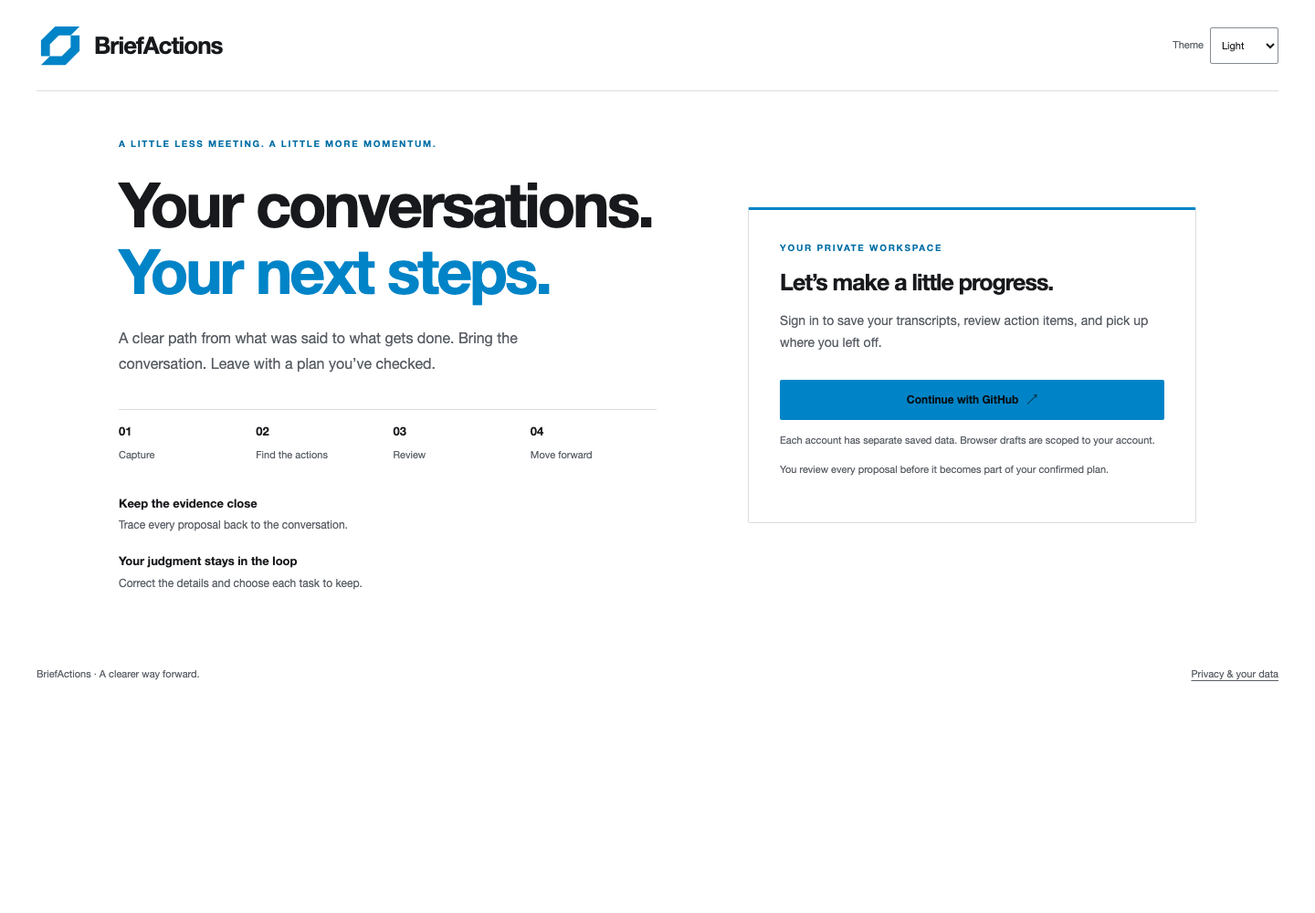
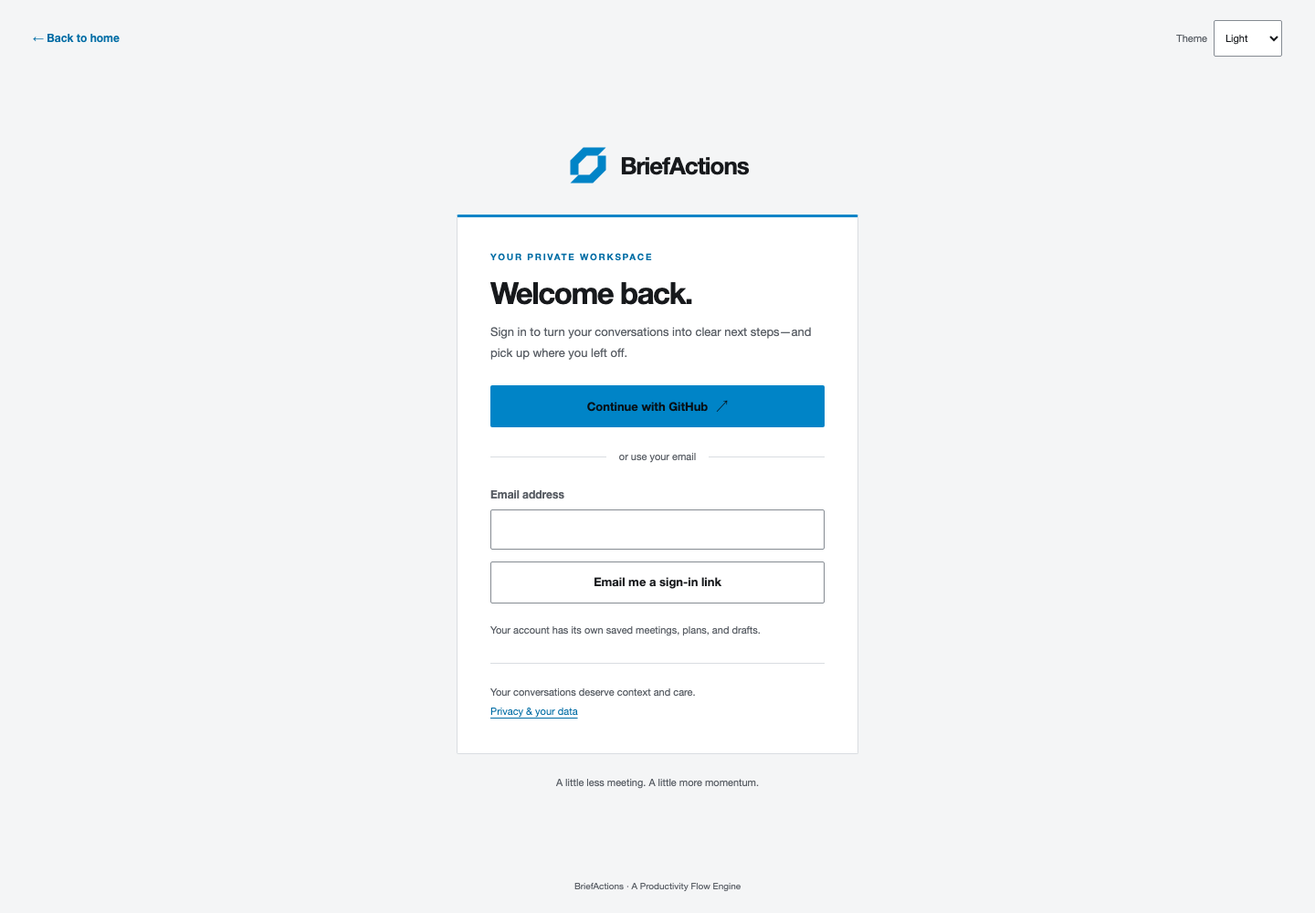
Add public homepage and dedicated sign-in flow

diff --git a/web/src/AuthShell.jsx b/web/src/AuthShell.jsx
@@ -1,55 +1,85 @@
-import React,{useEffect,useState} from 'react';
+import React,{useEffect,useRef,useState} from 'react';
 import {configureApi,request} from './api.js';
 import {scopeStorage} from './accountStorage.js';
 import ThemeControl from './ThemeControl.jsx';
 import ProductBrand from './ProductBrand.jsx';
+import LandingPage from './LandingPage.jsx';
 import {readRoute} from './routing.js';
+import {authScreen,workspaceDestination} from './authRouting.js';
+
+function clearDestination(){try{sessionStorage.removeItem('flow.authReturn');}catch{}}
+function destination(){let target;try{target=sessionStorage.getItem('flow.authReturn');}catch{}clearDestination();return workspaceDestination(target);}
+function rememberDestination(){if(!readRoute().invalid)try{sessionStorage.setItem('flow.authReturn',workspaceDestination(location.pathname+location.search+location.hash));}catch{}}
+function resolveScreen(signedIn,local){
+  const screen=authScreen();
+  if((screen==='signin' && signedIn) || screen==='callback' && (signedIn || local)){
+    history.replaceState({},'',destination());return 'workspace';
+  }
+  if(screen==='workspace' && !signedIn && !local){rememberDestination();history.replaceState({},'','/sign-in');return 'signin';}
+  if(screen==='callback'){history.replaceState({},'','/sign-in');return 'signin';}
+  return screen;
+}
 
 export default function AuthShell({children}) {
-  const [ready,setReady]=useState(false),[client,setClient]=useState(null),[session,setSession]=useState(null);
+  const [screen,setScreen]=useState(authScreen),[ready,setReady]=useState(false),[local,setLocal]=useState(false),[client,setClient]=useState(null),[session,setSession]=useState(null);
   const [error,setError]=useState(''),[notice,setNotice]=useState(''),[busy,setBusy]=useState(false),[email,setEmail]=useState(''),[emailEnabled,setEmailEnabled]=useState(false);
-  const [authUrl,setAuthUrl]=useState('');
+  const [authUrl,setAuthUrl]=useState(''),leaving=useRef(false);
   useEffect(()=>{
     let alive=true,subscription;
+    const callback=authScreen()==='callback';
     (async()=>{
       const response=await request('/api/auth-config');
       const config=await response.json();
-      if(config.mode==='local'){configureApi(null,null);scopeStorage(null);if(alive)setReady(true);return;}
+      if(config.mode==='local'){
+        configureApi(null,null);scopeStorage(null);
+        if(alive){setLocal(true);setScreen(resolveScreen(false,true));setReady(true);}return;
+      }
       const {createClient}=await import('@supabase/supabase-js');
       const auth=createClient(config.url,config.key,{auth:{flowType:'pkce'}});
-      const {data,error}=await auth.auth.getSession();
-      if(error)throw error;
-      if(data.session && location.pathname==='/'){try{const target=sessionStorage.getItem('flow.authReturn');if(target){const destination=new URL(target,location.origin);if(destination.origin===location.origin && !readRoute(destination).invalid)history.replaceState({},'',destination.pathname);}sessionStorage.removeItem('flow.authReturn');}catch{}}
-      let current=data.session?.user.id || null;
+      const {data,error:sessionError}=await auth.auth.getSession();
+      if(!alive)return;
+      if(sessionError || callback && !data.session)setError('We couldn’t finish signing you in. Please try again.');
+      const current=data.session?.user.id || null;
       configureApi(auth,current);scopeStorage(current);
-      if(alive){setClient(auth);setSession(data.session);setReady(true);setEmailEnabled(config.emailEnabled);setAuthUrl(config.url);}
+      setClient(auth);setSession(data.session);setScreen(resolveScreen(!!data.session,false));setReady(true);setEmailEnabled(config.emailEnabled);setAuthUrl(config.url);
       ({data:{subscription}}=auth.auth.onAuthStateChange((_event,next)=>{
         const id=next?.user.id || null;
         if(id!==current){
-          // Remove old account UI and stop its pending work before opening another.
+          // Unmount the old workspace before configuring requests for another account.
           if(alive){setReady(false);setSession(null);}
-          location.reload();
+          if(leaving.current)location.replace('/sign-in');else location.reload();
         }
       }));
-    })().catch(e=>{if(alive)setError(e.message);});
+    })().catch(()=>{if(alive)setError('Sign-in is temporarily unavailable. Please try again.');});
     return()=>{alive=false;subscription?.unsubscribe();};
   },[]);
-  function rememberDestination(){try{if(!readRoute().invalid)sessionStorage.setItem('flow.authReturn',location.pathname);}catch{}}
-  async function signIn(provider){rememberDestination();setBusy(true);setError('');try{const {error}=await client.auth.signInWithOAuth({provider,options:{redirectTo:location.origin}});if(error)throw error;}catch(e){setError(e.message);setBusy(false);}}
-  async function emailSignIn(event){event.preventDefault();rememberDestination();setBusy(true);setError('');try{const {error}=await client.auth.signInWithOtp({email,options:{emailRedirectTo:location.origin}});if(error)throw error;setNotice('Check your email for a sign-in link.');}catch(e){setError(e.message);}finally{setBusy(false);}}
-  async function signOut(){setBusy(true);setError('');const {error}=await client.auth.signOut();if(error){setError(error.message);setBusy(false);}}
+  useEffect(()=>{
+    if(!ready)return;
+    const pop=()=>setScreen(resolveScreen(!!session,local));
+    window.addEventListener('popstate',pop);return()=>window.removeEventListener('popstate',pop);
+  },[ready,session,local]);
+  async function signIn(provider){setBusy(true);setError('');try{const {error}=await client.auth.signInWithOAuth({provider,options:{redirectTo:location.origin+'/auth/callback'}});if(error)throw error;}catch{setError('We couldn’t start sign-in. Please try again.');setBusy(false);}}
+  async function emailSignIn(event){event.preventDefault();setBusy(true);setError('');setNotice('');try{const {error}=await client.auth.signInWithOtp({email,options:{emailRedirectTo:location.origin+'/auth/callback'}});if(error)throw error;setNotice('Check your email for a sign-in link.');}catch{setError('We couldn’t send a sign-in link. Please try again.');}finally{setBusy(false);}}
+  async function signOut(){
+    setBusy(true);setError('');leaving.current=true;clearDestination();
+    try{const {error}=await client.auth.signOut();if(error)throw error;location.replace('/sign-in');}catch{leaving.current=false;setError('We couldn’t sign you out. Please try again.');setBusy(false);}
+  }
   async function completeAccountDeletion(){
-    setReady(false);
+    setReady(false);leaving.current=true;clearDestination();
     try{await client.auth.signOut({scope:'local'});}finally{
       const key=`sb-${new URL(authUrl).hostname.split('.')[0]}-auth-token`;
-      localStorage.removeItem(key);localStorage.removeItem(key+'-code-verifier');location.reload();
+      localStorage.removeItem(key);localStorage.removeItem(key+'-code-verifier');location.replace('/sign-in');
     }
   }
-  if(ready && (!client || session))return children({account:session?.user,signOut:client?signOut:null,completeAccountDeletion,authError:error});
-  return <main className="auth-shell" id="signin-main"><a className="skip-link" href="#signin-title">Skip to sign in</a>
-    <header className="auth-header"><ProductBrand/><ThemeControl/></header>
-    <div className="auth-layout"><section className="auth-story" aria-labelledby="signin-title"><div className="eyebrow accent">A LITTLE LESS MEETING. A LITTLE MORE MOMENTUM.</div><h1 id="signin-title" tabIndex={-1}>Your conversations.<br/><span>Your next steps.</span></h1><p>A clear path from what was said to what gets done. Bring the conversation. Leave with a plan you’ve checked.</p><ol className="story-steps"><li><b>01</b>Capture</li><li><b>02</b>Find the actions</li><li><b>03</b>Review</li><li><b>04</b>Move forward</li></ol><div className="auth-features"><div><strong>Keep the evidence close</strong><p>Trace every proposal back to the conversation.</p></div><div><strong>Your judgment stays in the loop</strong><p>Correct the details and choose each task to keep.</p></div></div></section>
-    <section className="panel auth-card" aria-labelledby="auth-card-title"><div className="eyebrow accent">YOUR PRIVATE WORKSPACE</div><h2 id="auth-card-title">Let’s make a little progress.</h2><p>Sign in to save your transcripts, review action items, and pick up where you left off.</p>{error&&<div className="notice error" role="alert">{error}</div>}{notice&&<div className="notice" role="status">{notice}</div>}{!ready?<>{error?<button className="button secondary" onClick={()=>location.reload()}>Try again</button>:<p role="status">Loading secure workspace…</p>}</>:<><button className="button primary" disabled={busy} onClick={()=>signIn('github')}>Continue with GitHub <span aria-hidden="true">↗</span></button>{emailEnabled&&<form onSubmit={emailSignIn}><label className="field-label">Email address<input type="email" autoComplete="email" required value={email} onChange={e=>setEmail(e.target.value)}/></label><button className="button secondary" disabled={busy}>Email me a sign-in link</button></form>}<p className="form-hint">Each account has separate saved data. Browser drafts are scoped to your account.</p></>}<p className="form-hint">You review every proposal before it becomes part of your confirmed plan.</p></section></div>
-    <footer className="auth-footer"><span>BriefActions · A clearer way forward.</span><a href="/privacy">Privacy & your data</a></footer>
+  if(screen==='landing')return <LandingPage signedIn={!!session}/>;
+  if(screen==='workspace' && ready && (local || session))return children({account:session?.user,signOut:client?signOut:null,completeAccountDeletion,authError:error});
+  return <main className="signin-shell" id="signin-main"><a className="skip-link" href="#signin-title">Skip to sign in</a>
+    <header className="signin-toolbar"><a className="text-button" href="/">← Back to home</a><ThemeControl/></header>
+    <div className="signin-content"><ProductBrand/><section className="panel signin-card" aria-labelledby="signin-title"><div className="eyebrow accent">YOUR PRIVATE WORKSPACE</div><h1 id="signin-title" tabIndex={-1}>Welcome back.</h1><p>Sign in to turn your conversations into clear next steps—and pick up where you left off.</p>
+      {error&&<div className="notice error" role="alert">{error}</div>}{notice&&<div className="notice" role="status">{notice}</div>}
+      {!ready?<>{error?<button className="button secondary" onClick={()=>location.reload()}>Try again</button>:<p role="status">Getting sign-in ready…</p>}</>:local?<><div className="signin-local"><strong>Local preview</strong><p>No account is required on this development server. Public deployments use separate user accounts.</p></div><a className="button primary" href="/meetings">Open local workspace <span aria-hidden="true">↗</span></a></>:<><button className="button primary" disabled={busy} onClick={()=>signIn('github')}>Continue with GitHub <span aria-hidden="true">↗</span></button>{emailEnabled&&<><div className="signin-divider"><span>or use your email</span></div><form onSubmit={emailSignIn}><label className="field-label">Email address<input type="email" autoComplete="email" required value={email} onChange={e=>setEmail(e.target.value)}/></label><button className="button secondary" disabled={busy}>{busy?'Please wait…':'Email me a sign-in link'}</button></form></>}<p className="form-hint">Your account has its own saved meetings, plans, and drafts.</p></>}
+      <p className="signin-privacy">Your conversations deserve context and care.<br/><a href="/privacy">Privacy & your data</a></p>
+    </section><p className="signin-caption">A little less meeting. A little more momentum.</p></div>
+    <footer className="signin-footer">BriefActions · A Productivity Flow Engine</footer>
   </main>;
 }

diff --git a/web/src/styles.css b/web/src/styles.css
@@ -238,3 +238,67 @@ main.public-page{margin:auto;max-width:920px;padding:26px}.privacy-toolbar{displ
 .plan-export textarea{width:100%;min-height:260px;font-size:12px;line-height:1.7;margin-top:12px}
 .review-reasons{padding:16px;border-left:3px solid var(--primary);background:var(--surface-soft);margin-bottom:18px}.review-reasons h4{font-size:12px}.review-reasons ul{padding-left:18px;margin:8px 0;font-size:12px;line-height:1.75}.review-reasons li+li{margin-top:6px}.review-reasons p{font-size:11px}
 @media(max-width:760px){.task-dashboard-filters{padding:18px}.task-dashboard-search{grid-template-columns:minmax(0,1fr)}.task-views{display:grid;grid-template-columns:repeat(2,minmax(0,1fr))}.task-view{justify-content:space-between;gap:8px}.dashboard-task{flex-direction:column;align-items:stretch;padding:18px}.dashboard-task-heading{flex-wrap:wrap;gap:8px}.dashboard-task>.button{white-space:normal}.plan-export{padding:18px}.plan-export-controls{align-items:stretch}.plan-export-controls>.field-label{width:100%}.plan-export-controls>.button{flex:1;white-space:normal;min-width:100px}.confirmed-card.task-link-target{scroll-margin-top:18px}}
+/* Public introduction and a separate, focused account entry. */
+.landing-shell{max-width:1440px;margin:auto;padding:0 48px;background:var(--canvas)}
+.landing-header{display:flex;align-items:center;gap:30px;min-height:104px;border-bottom:1px solid var(--line)}
+.landing-header nav{display:flex;gap:26px;margin:auto;font-size:12px;font-weight:550}
+.landing-header nav a{display:inline-flex;align-items:center;min-height:44px}
+.landing-header nav a:hover,.landing-footer a:hover{color:var(--accent);text-decoration:underline;text-underline-offset:4px}
+.landing-header-actions{display:flex;align-items:center;gap:18px}
+.landing-hero{text-align:center;max-width:860px;margin:auto;padding:82px 0 55px}
+.landing-hero .eyebrow,.landing-close .eyebrow{justify-content:center}
+.landing-hero h1{font-size:clamp(44px,6.7vw,88px);line-height:1.04;letter-spacing:-.065em;margin:23px 0}
+.landing-hero h1 span{color:var(--accent)}
+.landing-lead{font-size:17px;max-width:610px;margin:auto;line-height:1.8}
+.landing-hero-actions{display:flex;justify-content:center;flex-wrap:wrap;gap:12px;margin-top:29px}
+.landing-hero-actions .button,.landing-close .button{min-height:48px;min-width:150px;font-size:13px}
+.landing-principles{font-size:11px;margin-top:19px}
+.landing-demo{max-width:1060px;margin:0 auto 90px;border:1px solid var(--control-border);background:var(--surface)}
+.landing-demo-bar{display:flex;align-items:center;justify-content:space-between;gap:15px;border-bottom:1px solid var(--line);padding:17px 24px;background:var(--surface-soft)}
+.landing-demo-bar>div{display:flex;align-items:center;gap:12px}.landing-demo-bar h2{font-size:14px;letter-spacing:-.02em}
+.demo-dot{display:block;flex-shrink:0;width:7px;height:7px;background:var(--primary)}
+.landing-demo-grid{display:grid;grid-template-columns:minmax(0,1fr) minmax(0,1fr)}
+.landing-demo-source,.landing-demo-tasks{padding:30px;min-width:0}.landing-demo-source{border-right:1px solid var(--line)}
+.landing-demo h3{font-size:22px;margin:10px 0 4px}.landing-demo .form-hint{font-size:11px}
+.demo-conversation{margin:29px 0 0;display:grid;gap:14px}.demo-conversation p{border-left:3px solid transparent;padding:16px 18px;background:var(--surface-soft);font-size:14px;color:var(--text);line-height:1.7}
+.demo-conversation strong{display:block;font-size:11px;margin-bottom:6px;color:var(--muted)}
+.demo-conversation p.demo-source-active{border-left-color:var(--primary);background:var(--accent-soft)}
+.demo-source-note{font-size:11px;margin-top:25px}
+.demo-task-list{display:grid;gap:14px;margin-top:23px}.demo-task{padding:18px;border:1px solid var(--line);border-left:3px solid var(--line)}
+.demo-task-active{border-left-color:var(--primary)}
+.demo-task-title{display:flex;align-items:baseline;gap:12px}.demo-task-title>span{font-size:10px;color:var(--muted)}
+.demo-task h4{margin:0;font-size:14px;line-height:1.5;letter-spacing:-.02em}
+.demo-task dl{display:flex;gap:30px;margin:14px 0 8px}.demo-task dt{font-size:10px;color:var(--muted)}.demo-task dd{font-size:12px;margin:3px 0 0;font-weight:550}
+.demo-task .text-button{font-size:11px;padding-left:0;min-height:40px;text-align:left;white-space:normal}
+.landing-demo-caption{border-top:1px solid var(--line);padding:13px 24px;font-size:11px}
+.landing-section{scroll-margin-top:24px;padding:64px 0;border-top:1px solid var(--line)}
+.landing-section-heading{max-width:650px;margin-bottom:35px}.landing-section-heading h2,.landing-data h2{font-size:clamp(29px,3.5vw,42px);line-height:1.16;letter-spacing:-.045em;margin:13px 0 17px}
+.landing-section-heading>p:last-child{max-width:530px;font-size:15px}
+.landing-how ol{display:grid;grid-template-columns:repeat(3,minmax(0,1fr));gap:42px;list-style:none;padding:0;margin:0}
+.landing-step-number{display:block;font-size:12px;color:var(--accent);border-top:2px solid var(--primary);padding-top:17px;margin-bottom:20px}
+.landing-how h3,.landing-feature-grid h3{font-size:21px;letter-spacing:-.03em;margin-bottom:12px}.landing-how li p,.landing-feature-grid p{max-width:460px;font-size:14px}
+.landing-feature-grid{display:grid;grid-template-columns:1fr 1fr;border-top:1px solid var(--line);border-left:1px solid var(--line)}
+.landing-feature-grid article{padding:30px;border-right:1px solid var(--line);border-bottom:1px solid var(--line)}
+.landing-feature-grid .eyebrow{margin-bottom:20px}
+.landing-data{display:flex;align-items:center;justify-content:space-between;gap:64px}.landing-data>div{max-width:670px}.landing-data>.text-button{flex-shrink:0;padding:0}
+.landing-faq{display:grid;grid-template-columns:minmax(0,1fr) minmax(0,1.2fr);gap:70px}.landing-faq details{border-bottom:1px solid var(--line);padding:0 0 18px;margin-bottom:18px}
+.landing-faq summary{font-size:15px;font-weight:600;line-height:1.6;min-height:30px;padding-block:6px}.landing-faq details p{margin-top:12px;font-size:13px}
+.landing-close{text-align:center;padding:67px 0 72px;background:var(--surface-soft);margin-bottom:48px;border-bottom:1px solid var(--line)}
+.landing-close h2{font-size:clamp(38px,4.8vw,60px);line-height:1.1;letter-spacing:-.05em;margin:20px 0 25px}.landing-close>p:last-child{font-size:12px;margin-top:18px}
+.landing-footer{display:flex;align-items:center;justify-content:space-between;gap:24px;padding:0 0 32px;color:var(--muted);font-size:11px}.landing-footer>div{display:flex;gap:22px}.landing-footer a{display:inline-flex;align-items:center;min-height:44px}
+main.signin-shell{min-height:100vh;display:flex;flex-direction:column;background:var(--surface-soft);padding:22px 36px}
+.signin-toolbar{display:flex;align-items:center;justify-content:space-between;gap:20px}.signin-toolbar .text-button{padding-left:0}
+.signin-content{display:flex;align-items:center;flex-direction:column;justify-content:center;flex:1;width:100%;padding:48px 0}
+.signin-content>.brand{margin-bottom:30px}.signin-content>.brand .brand-mark{width:48px;height:48px}
+.signin-card{width:100%;max-width:440px;padding:36px;border-top:3px solid var(--primary)}
+.signin-card h1{font-size:33px;margin:12px 0;letter-spacing:-.045em}.signin-card>p{font-size:13px;margin:12px 0 24px}
+.signin-card .button{width:100%;font-size:13px;min-height:46px;white-space:normal}.signin-card .notice{margin:16px 0}.signin-card .field-label{font-size:12px}.signin-card input{width:100%;min-height:44px}.signin-card form .button{margin-top:13px}
+.signin-divider{display:flex;align-items:center;gap:14px;font-size:11px;color:var(--muted);margin:24px 0}.signin-divider:before,.signin-divider:after{content:'';height:1px;flex:1;background:var(--line)}
+.signin-card .form-hint{font-size:11px;margin:20px 0 0}
+.signin-card .signin-privacy{border-top:1px solid var(--line);padding-top:21px;margin:25px 0 0;font-size:11px;line-height:1.9}.signin-privacy a{color:var(--accent);text-decoration:underline;text-underline-offset:3px}
+.signin-local{border-left:2px solid var(--primary);background:var(--accent-soft);padding:13px 16px;margin:22px 0}.signin-local strong{font-size:12px}.signin-local p{font-size:12px;margin-top:6px}
+.signin-caption{font-size:11px;text-align:center;margin-top:22px}.signin-footer{text-align:center;font-size:10px;color:var(--muted)}
+@media(max-width:1100px){.landing-header{flex-wrap:wrap;gap:12px 22px;padding:20px 0}.landing-header nav{order:3;width:100%;justify-content:center;border-top:1px solid var(--line);padding-top:8px}.landing-header-actions{margin-left:auto}.landing-data{display:block}.landing-data>.text-button{margin-top:20px}.landing-faq{gap:35px}}
+@media(max-width:700px){
+ .landing-shell{padding:0 20px}.landing-header{gap:14px}.landing-header .brand-name{font-size:24px}.landing-header .brand-mark{width:40px;height:40px}.landing-header-actions{width:100%;margin:0;justify-content:space-between}.landing-header nav{order:2;border:0;padding:0;gap:24px;justify-content:flex-start}.landing-header-actions{order:3}.landing-header nav a{min-height:36px;font-size:11px}.landing-header-actions .button{min-width:115px}.landing-hero{padding:47px 0 35px}.landing-hero .eyebrow{font-size:9px;letter-spacing:1.2px}.landing-hero h1{font-size:clamp(37px,8.5vw,58px);letter-spacing:-.065em;margin:20px 0}.landing-lead{font-size:14px}.landing-hero-actions .button{min-width:0;flex:1;font-size:12px;padding-inline:12px}.landing-principles{font-size:10px}.landing-demo{margin-bottom:45px}.landing-demo-bar{padding:14px;flex-wrap:wrap;gap:8px}.landing-demo-bar h2{font-size:13px}.landing-demo-bar .badge{font-size:9px}.landing-demo-grid{grid-template-columns:minmax(0,1fr)}.landing-demo-source,.landing-demo-tasks{padding:23px 18px}.landing-demo-source{border-right:0;border-bottom:1px solid var(--line)}.landing-demo h3{font-size:21px}.demo-conversation{margin-top:20px}.demo-conversation p{font-size:13px;padding:12px}.demo-source-note{margin-top:17px}.demo-task dl{gap:25px}.demo-task{padding:15px}.landing-demo-caption{padding:13px 18px;font-size:10px}.landing-section{padding:40px 0}.landing-section-heading{margin-bottom:27px}.landing-section-heading h2,.landing-data h2{font-size:31px}.landing-how ol{grid-template-columns:1fr;gap:27px}.landing-step-number{margin-bottom:14px;padding-top:12px}.landing-how h3,.landing-feature-grid h3{font-size:20px}.landing-feature-grid{grid-template-columns:1fr}.landing-feature-grid article{padding:25px 22px}.landing-feature-grid .eyebrow{margin-bottom:13px}.landing-faq{grid-template-columns:minmax(0,1fr);gap:0}.landing-faq details:last-child{margin-bottom:0}.landing-close{margin-bottom:24px;padding:40px 18px}.landing-close h2{font-size:38px}.landing-footer{align-items:flex-start;flex-direction:column;gap:4px;padding-bottom:25px}.landing-footer>span:last-child{margin-top:9px}main.signin-shell{padding:16px 20px}.signin-content{padding:38px 0}.signin-content>.brand .brand-mark{width:42px;height:42px}.signin-card{padding:27px 22px}.signin-card h1{font-size:30px}.signin-toolbar{gap:12px}.signin-toolbar .text-button{font-size:11px}.signin-caption{max-width:230px}
+}

diff --git a/web/src/LandingPage.jsx b/web/src/LandingPage.jsx
@@ -1,0 +1,40 @@
+import React,{useState} from 'react';
+import ProductBrand from './ProductBrand.jsx';
+import ThemeControl from './ThemeControl.jsx';
+
+const examples=[
+ {id:'checklist',task:'Share the launch checklist',owner:'Maya',deadline:'17 Oct 2026',speaker:'Maya',quote:'I’ll share the launch checklist tomorrow.'},
+ {id:'notes',task:'Review the release notes',owner:'Unknown',deadline:'Unknown',speaker:'Alex',quote:'Please review the release notes.'}
+];
+
+export default function LandingPage({signedIn=false}){
+ const [active,setActive]=useState('checklist');
+ const href=signedIn?'/meetings':'/sign-in',action=signedIn?'Open workspace':'Get started';
+ return <div className="landing-shell"><a className="skip-link" href="#home-title">Skip to content</a>
+  <header className="landing-header"><ProductBrand/><nav aria-label="Website navigation"><a href="#how">How it works</a><a href="#features">Features</a><a href="#questions">Questions</a></nav><div className="landing-header-actions"><ThemeControl/><a className="button secondary" href={href}>{signedIn?'Open workspace':'Sign in'}</a></div></header>
+  <main id="home-main">
+   <section className="landing-hero" aria-labelledby="home-title"><p className="eyebrow accent">FROM CONVERSATION TO FOLLOW-THROUGH</p><h1 id="home-title" tabIndex={-1}>Good conversations.<br/><span>Clear next steps.</span></h1><p className="landing-lead">Turn meeting transcripts into action plans you can check and put to work. Check the tasks, owners, and dates—with the original words right beside them.</p><div className="landing-hero-actions"><a className="button primary" href={href}>{action}<svg width="17" height="17" viewBox="0 0 24 24" fill="none" stroke="currentColor" strokeWidth="1.7" aria-hidden="true"><path d="M5 12h14m-5-5 5 5-5 5"/></svg></a><a className="button secondary" href="#how">See how it works</a></div><p className="landing-principles">Keep the source. Make the call. Move the work forward.</p></section>
+   <section className="landing-demo" aria-labelledby="demo-title"><div className="landing-demo-bar"><div><span className="demo-dot" aria-hidden="true"/><h2 id="demo-title">A plan you can check.</h2></div><span className="badge neutral">Interactive example</span></div><div className="landing-demo-grid"><div className="landing-demo-source"><div className="eyebrow">THE CONVERSATION</div><h3>Product check-in</h3><p className="form-hint">Meeting date · 16 October 2026</p><div className="demo-conversation">{examples.map(item=><p key={item.id} className={active===item.id?'demo-source-active':''}><strong>{item.speaker}</strong><span>{item.quote}</span></p>)}</div><p className="demo-source-note">The original words stay attached as you review.</p></div><div className="landing-demo-tasks"><div className="eyebrow">YOUR NEXT STEPS</div><h3>Review before you commit.</h3><div className="demo-task-list">{examples.map((item,index)=><article className={`demo-task ${active===item.id?'demo-task-active':''}`} key={item.id}><div className="demo-task-title"><span aria-hidden="true">0{index+1}</span><h4>{item.task}</h4></div><dl><div><dt>Owner</dt><dd>{item.owner}</dd></div><div><dt>Deadline</dt><dd>{item.deadline}</dd></div></dl><button type="button" className="text-button" aria-pressed={active===item.id} onClick={()=>setActive(item.id)}>Show supporting passage<span className="sr-only"> for {item.task}</span><span aria-hidden="true">↗</span></button></article>)}</div><p className="sr-only" role="status">Showing the supporting passage for {examples.find(item=>item.id===active).task}.</p></div></div><p className="landing-demo-caption">Illustrative example. Missing owners and deadlines stay Unknown until you supply them.</p></section>
+   <section className="landing-how landing-section" id="how" aria-labelledby="how-title"><div className="landing-section-heading"><p className="eyebrow accent">A SIMPLE WAY FORWARD</p><h2 id="how-title">Three steps from said to done.</h2></div><ol>{[
+    ['Bring the conversation','Paste a transcript or import a text or caption file. Add the meeting date to give words like “tomorrow” their context.'],
+    ['Make the plan yours','Check the supporting words, correct the details, and select the tasks you want. You decide what becomes part of the plan.'],
+    ['Keep things moving','Find confirmed work across meetings, update progress, and copy or export a plan when you’re ready to share it.']
+   ].map(([title,text],index)=><li key={title}><span className="landing-step-number">0{index+1}</span><h3>{title}</h3><p>{text}</p></li>)}</ol></section>
+   <section className="landing-features landing-section" id="features" aria-labelledby="features-title"><div className="landing-section-heading"><p className="eyebrow accent">BUILT AROUND THE WORK</p><h2 id="features-title">Everything keeps its context.</h2><p>A useful task tells you what comes next—and lets you check where it came from.</p></div><div className="landing-feature-grid">{[
+    ['01','The words behind every task','Jump from a proposal to its supporting transcript passage. Review corrections stay separate from the original conversation.'],
+    ['02','Room for your judgment','Edit the task, owner, or deadline. Clear reminders show what needs a closer look, and missing information stays Unknown.'],
+    ['03','One place to follow through','Find confirmed tasks across meetings. Filter by owner, status, or due date, and return to the exact task when you need context.'],
+    ['04','A plan that travels with you','Copy a readable action plan or download Markdown and CSV. Group the plan by owner or deadline, with its supporting passages included.']
+   ].map(([number,title,text])=><article key={number}><span className="eyebrow accent">{number}</span><h3>{title}</h3><p>{text}</p></article>)}</div></section>
+   <section className="landing-data landing-section" aria-labelledby="data-title"><div><p className="eyebrow accent">YOUR WORK, WITH A RECORD</p><h2 id="data-title">Pick up where the conversation left off.</h2><p>Keep meeting history, unfinished reviews, and the decisions behind your confirmed plans together. Hosted accounts have separate workspaces, with controls to export or erase saved data.</p></div><a className="text-button" href="/privacy">Read how your data is handled <span aria-hidden="true">↗</span></a></section>
+   <section className="landing-faq landing-section" id="questions" aria-labelledby="questions-title"><div className="landing-section-heading"><p className="eyebrow accent">A FEW THINGS TO KNOW</p><h2 id="questions-title">Before your first meeting.</h2></div><div>{[
+    ['Do I need a technical background?','No. Add a conversation, check the suggested tasks, and choose what to keep. Optional guides explain the workflow. The research tools are there when you need them.'],
+    ['What can I import?','Paste transcript text or import TXT, WebVTT, or SRT files. You can preview an imported conversation before analyzing it.'],
+    ['What happens when an owner or deadline is missing?','It stays Unknown. Check the supporting conversation, then supply a value if you can establish it. You can also keep Unknown in a confirmed plan.'],
+    ['Are tasks accepted automatically?','You review and select each task before confirming the plan. Confirmed tasks stay in BriefActions, where you can track progress and export them.'],
+    ['Who can access my meeting data?','Hosted accounts have separate workspaces. The app server processes your transcripts, and authorized operators and service providers may access stored data to run the service. The privacy page explains storage, exports, deletion, and backups.']
+   ].map(([question,answer])=><details key={question}><summary>{question}</summary><p>{answer}</p></details>)}</div></section>
+   <section className="landing-close landing-section" aria-labelledby="start-title"><p className="eyebrow accent">LET’S MAKE A LITTLE PROGRESS</p><h2 id="start-title">Leave the meeting<br/>with a way forward.</h2><a className="button primary" href={href}>{action}<span aria-hidden="true">↗</span></a><p>Bring the conversation. Leave with a plan you’ve checked.</p></section>
+  </main><footer className="landing-footer"><span>BriefActions · A Productivity Flow Engine</span><div><a href="/privacy">Privacy & your data</a><a href={href}>{signedIn?'Open workspace':'Sign in'}</a></div><span>Evidence → Review → Action</span></footer>
+ </div>;
+}

diff --git a/web/src/PrivacyPage.jsx b/web/src/PrivacyPage.jsx
@@ -3,7 +3,7 @@ import ThemeControl from './ThemeControl.jsx';
 
 export default function PrivacyPage(){
   return <main className="public-page" id="privacy-main"><a className="skip-link" href="#privacy-title">Skip to privacy information</a>
-    <header className="privacy-toolbar"><a className="text-button" href="/">Back to workspace</a><ThemeControl/></header>
+    <header className="privacy-toolbar"><a className="text-button" href="/">Back to BriefActions</a><ThemeControl/></header>
     <article className="panel privacy-copy"><div className="eyebrow accent">BRIEFACTIONS</div><h1 id="privacy-title" tabIndex={-1}>Privacy & your data</h1><p>How this tool handles your conversations and the work you save. Updated 13 October 2026.</p>
       <section><h2>You choose what to save</h2><p>A file you choose is read and previewed in your browser. The original file is not uploaded. Analyzing a transcript sends the approved text, meeting date, and grouping settings to the app server and saves the result. Importing an annotation saves the text and details you approve for evaluation.</p><p>The example meeting is synthetic. Loading it does not create a saved run; analyzing it does. Check that you have permission to use a transcript and remove sensitive details before saving it.</p></section>
       <section><h2>What your workspace keeps</h2><p>Saved data includes transcript text, proposed tasks, people and dates, supporting passages, your corrections and selections, confirmed plans, and subsequent task progress updates. Annotation labels, reviewer names, disagreements, saved drafts, frozen datasets, and comparison reports are also retained when you use those features.</p><p>Saved work stays until you delete it. Transcript inputs are autosaved in this browser before analysis, separated by account and tab. Unfinished reviews and interrupted analysis inputs may also be stored here. Browser-only transcript drafts are not included in workspace exports; discard them from the transcript screen when you no longer need them. Sign-in sessions are managed by Supabase; GitHub and, when enabled, email links are used to sign in. Your theme preference is stored in this browser. Review layout and panel width preferences are stored per account in this browser. Interrupted task progress updates retain a request ID here so you can retry safely after a reload.</p></section>
@@ -11,6 +11,6 @@ export default function PrivacyPage(){
       <section><h2>Extraction and operational logs</h2><p>The current extraction workflow runs on the app server. It does not send your meeting transcript to an external AI model API. Model comparison reports shown in the evaluation lab are saved experiments.</p><p>Application operational logs record request references, fixed route names, response status, timing, and resource counters. They exclude transcript text, credentials, account IDs, and raw exception details. Hosting providers manage their own infrastructure logs and retention.</p></section>
       <section><h2>Exporting and deleting your work</h2><p>Open <strong>Data & account</strong> to download a workspace export or erase a saved transcript. Erasing an extraction also removes its saved proposals, reviews, and final plan. Erasing an annotation also removes dependent frozen datasets and comparisons.</p><p>Hosted account deletion erases the workspace and requests removal of your sign-in account. If the sign-in provider is unavailable, the workspace stays erased and paused; return to finish the deletion. Minimal deletion identifiers and account state are retained to prevent old requests from recreating erased work.</p><p>Deleting saved work clears related cached copies in this browser and its open tabs. It cannot remove downloaded exports or copies saved in other browsers.</p></section>
       <section><h2>Backups have separate retention</h2><p>When configured, the included backup workflow retains encrypted backup files for seven days. Deployment operators must enable it; other copies and database-provider backups may have different retention. Deletion does not immediately rewrite older backups.</p><p>The restore workflow applies a fresh deletion ledger so known later deletions are not restored. A disaster restore without that ledger can bring back old data and requires an explicit operator override.</p></section>
-      <p><a className="text-button" href="/#data">Open Data & account</a></p>
+      <p><a className="text-button" href="/account">Open Data & account</a></p>
     </article></main>;
 }

diff --git a/web/src/main.jsx b/web/src/main.jsx
@@ -1,3 +1,4 @@
+import {authScreen} from './authRouting.js';
 import {api,downloadFile} from './api.js';
 import AuthShell from './AuthShell.jsx';
 import ThemeControl from './ThemeControl.jsx';
@@ -78,7 +79,7 @@ function App({account,signOut,completeAccountDeletion,authError}) {
     navigationEpoch.current++;setError('');commitRoute(next,mode);if(!next.taskId)afterRender(()=>document.querySelector('main h1')?.focus({preventScroll:true}));
   }
   navigation.current=navigate;
-  useEffect(()=>{const pop=()=>navigation.current?.(readRoute(),'pop');window.addEventListener('popstate',pop);return()=>window.removeEventListener('popstate',pop);},[]);
+  useEffect(()=>{const pop=()=>{if(authScreen()==='workspace')navigation.current?.(readRoute(),'pop');};window.addEventListener('popstate',pop);return()=>window.removeEventListener('popstate',pop);},[]);
   const [closing,setClosing]=useState(false);
   const [restoring,setRestoring]=useState(true);
   useEffect(()=>{if(!restoring && deferredNavigation.current){const next=deferredNavigation.current;deferredNavigation.current=null;history.replaceState({},'',routePath(next));void navigation.current?.(next,'pop');}},[restoring]);

diff --git a/web/src/authRouting.js b/web/src/authRouting.js
@@ -1,0 +1,19 @@
+import {readRoute,routePath} from './routing.js';
+
+export function authScreen(url=new URL(location.href)){
+ const path=url.pathname.replace(/\/$/,'') || '/';
+ if(path==='/sign-in')return 'signin';
+ if(path==='/auth/callback' || path==='/' && (['code','error','error_description','error_code'].some(key=>url.searchParams.has(key)) || /(?:^#|&)(?:access_token|error|error_description|error_code)=/.test(url.hash)))return 'callback';
+ return path==='/' && url.hash!=='#data'?'landing':'workspace';
+}
+
+// Only known, same-origin workspace routes can be authentication destinations.
+// Reconstructing the route drops provider codes, arbitrary queries and fragments.
+export function workspaceDestination(value,origin=location.origin){
+ if(typeof value!=='string' || !value.startsWith('/') || value.startsWith('//') || value.includes('\\'))return '/meetings';
+ try{
+  const url=new URL(value,origin),route=readRoute(url);
+  if(url.origin!==origin || route.invalid || url.pathname==='/' && url.hash!=='#data')return '/meetings';
+  return routePath(route);
+ }catch{return '/meetings';}
+}

diff --git a/README.md b/README.md
@@ -12,7 +12,7 @@ Extraction quality is measured against an annotated evaluation set.
 
 ![BriefActions workspace](docs/screenshots/workspace-light.png)
 
-[Review workspace](docs/screenshots/review-light.png) · [Dark theme](docs/screenshots/review-dark.png) · [Task progress](docs/screenshots/task-progress-light.png) · [Sign-in page](docs/screenshots/sign-in-light.png)
+[Public homepage](docs/screenshots/homepage-light.png) · [Review workspace](docs/screenshots/review-light.png) · [Dark theme](docs/screenshots/review-dark.png) · [Task progress](docs/screenshots/task-progress-light.png) · [Sign-in page](docs/screenshots/sign-in-light.png)
 
 ## Review with context
 
@@ -155,7 +155,10 @@ Every meeting has a private `/meetings/:id` URL. Sections use `/meetings`, `/his
 `/account`, `/research/evaluation`, and `/research/annotations`. Refresh and browser
 Back/Forward preserve the section or load the requested meeting. The old `/#data`
 link still opens account settings. Opening `/meetings` starts or restores that tab's
-new-meeting draft; opening `/` can resume the last saved run. Unsaved transcript
+new-meeting draft. `/` is the public homepage, with an interactive sample plan,
+workflow introduction, features, and common questions. **Sign in** opens `/sign-in`;
+successful hosted sign-in opens the private workspace. Existing sessions can use
+**Open workspace** from the homepage. Unsaved transcript
 protection and interrupted-analysis recovery still apply when opening another run.
 
 A task link adds `?task=<proposal-id>` to its meeting URL, opens the exact confirmed
@@ -163,7 +166,10 @@ task, and keeps its supporting passage accessible. **All tasks** uses `/tasks`.
 
 Every saved meeting request requires the signed-in account; knowing a URL does not
 grant another account access. The sign-in flow can retain a requested destination
-through the same tab's session storage. The primary navigation keeps extraction,
+through the same tab's session storage, including its task selection. Only known,
+same-origin workspace routes are accepted as return destinations. `/auth/callback`
+completes GitHub or email-link sign-in; older callbacks to `/` remain supported.
+Signing out clears the return destination and opens `/sign-in`. The primary navigation keeps extraction,
 history, and account controls visible; **Research tools** contains Compare extraction methods
 and Label & review examples. These research screens remain available to each account. Research links use left-aligned rows in an anchored desktop dropdown; on phones, they expand within the navigation so account and Help controls stay unobstructed.
 
@@ -323,7 +329,10 @@ pnpm install
 pnpm dev
 ```
 
-Open **http://127.0.0.1:5173**. The development API runs on port 3001;
+Open **http://127.0.0.1:5173** for the public homepage, then use **Get started**
+and **Open local workspace** to preview the flow. Local development requires no
+account; public deployments require authenticated accounts. The workspace is at
+`/meetings`. The development API runs on port 3001;
 Vite proxies `/api` requests to it. `pnpm dev` starts and stops both processes.
 The loaded example uses its original meeting date (2026-09-15); set the actual
 meeting date when pasting a new transcript.

diff --git a/docs/deployment.md b/docs/deployment.md
@@ -36,8 +36,13 @@ important meeting records. Provider limits and available plans can change.
    database administrator. It creates a private `flow` schema and restricted
    `flow_app` role. Never expose that schema through the browser Data API.
 3. In Auth, enable the GitHub OAuth provider and configure a GitHub OAuth app.
-   Use Supabase's callback URL for the GitHub app. Set Supabase's Site URL and
-   allowed redirect URL to the exact deployed app origin.
+   Use Supabase's callback URL for the GitHub app. Set Supabase's Site URL to
+   the exact deployed app origin (for example, `https://briefactions.example`).
+   Add `https://briefactions.example/auth/callback` to the allowed redirect URLs,
+   using your actual hostname. BriefActions uses this path for GitHub and email
+   links; the public homepage is `/`, and the sign-in page is `/sign-in`.
+   Keep the exact root origin allowed while older sign-in links are in circulation.
+   Avoid wildcard production redirect URLs.
 4. Copy the project's URL and **publishable key**. A legacy `anon` key is also
    supported; never use a service-role or secret key in that setting.
 5. Copy the **session pooler** Postgres connection URI from Connect. Add

diff --git a/docs/user-guide.md b/docs/user-guide.md
@@ -1,5 +1,11 @@
 # Using BriefActions
 
+The public homepage explains the workflow with a sample conversation. Choose
+**Get started** or **Sign in**, then continue with GitHub (or an email link when
+enabled). After sign-in, BriefActions opens your private workspace. A saved meeting
+or task link returns to that item after sign-in. Local development instead shows
+**Open local workspace**, with no account required.
+
 Start with **Extract & review**. The research tools are optional; you do not need
 a machine-learning background to turn a meeting into tasks. Open **Help** anywhere
 in the workspace for a short walkthrough and glossary. You can close or skip it
